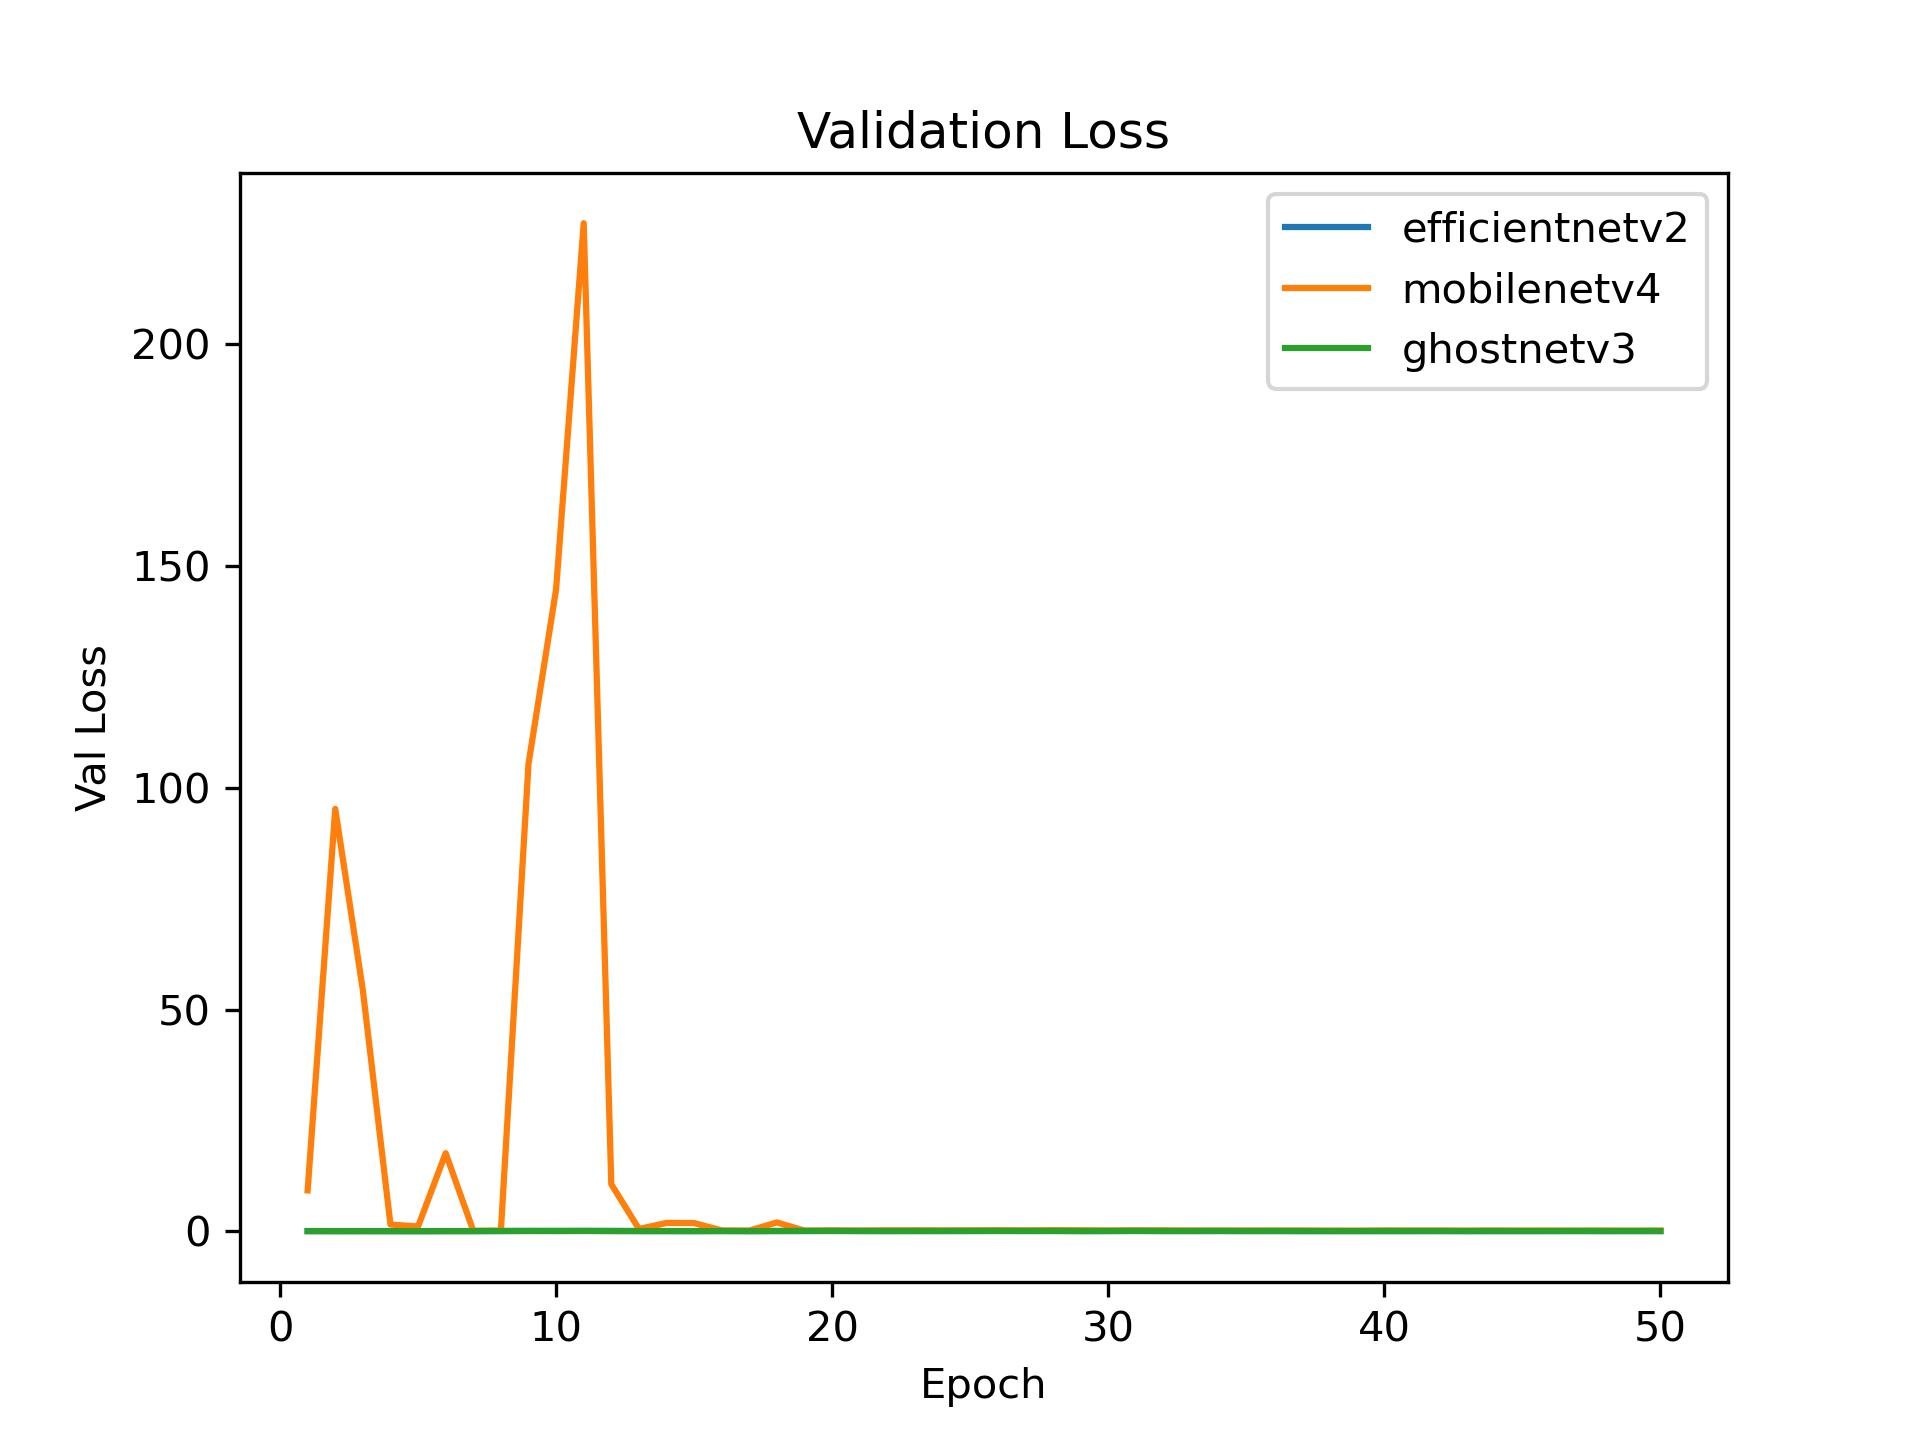
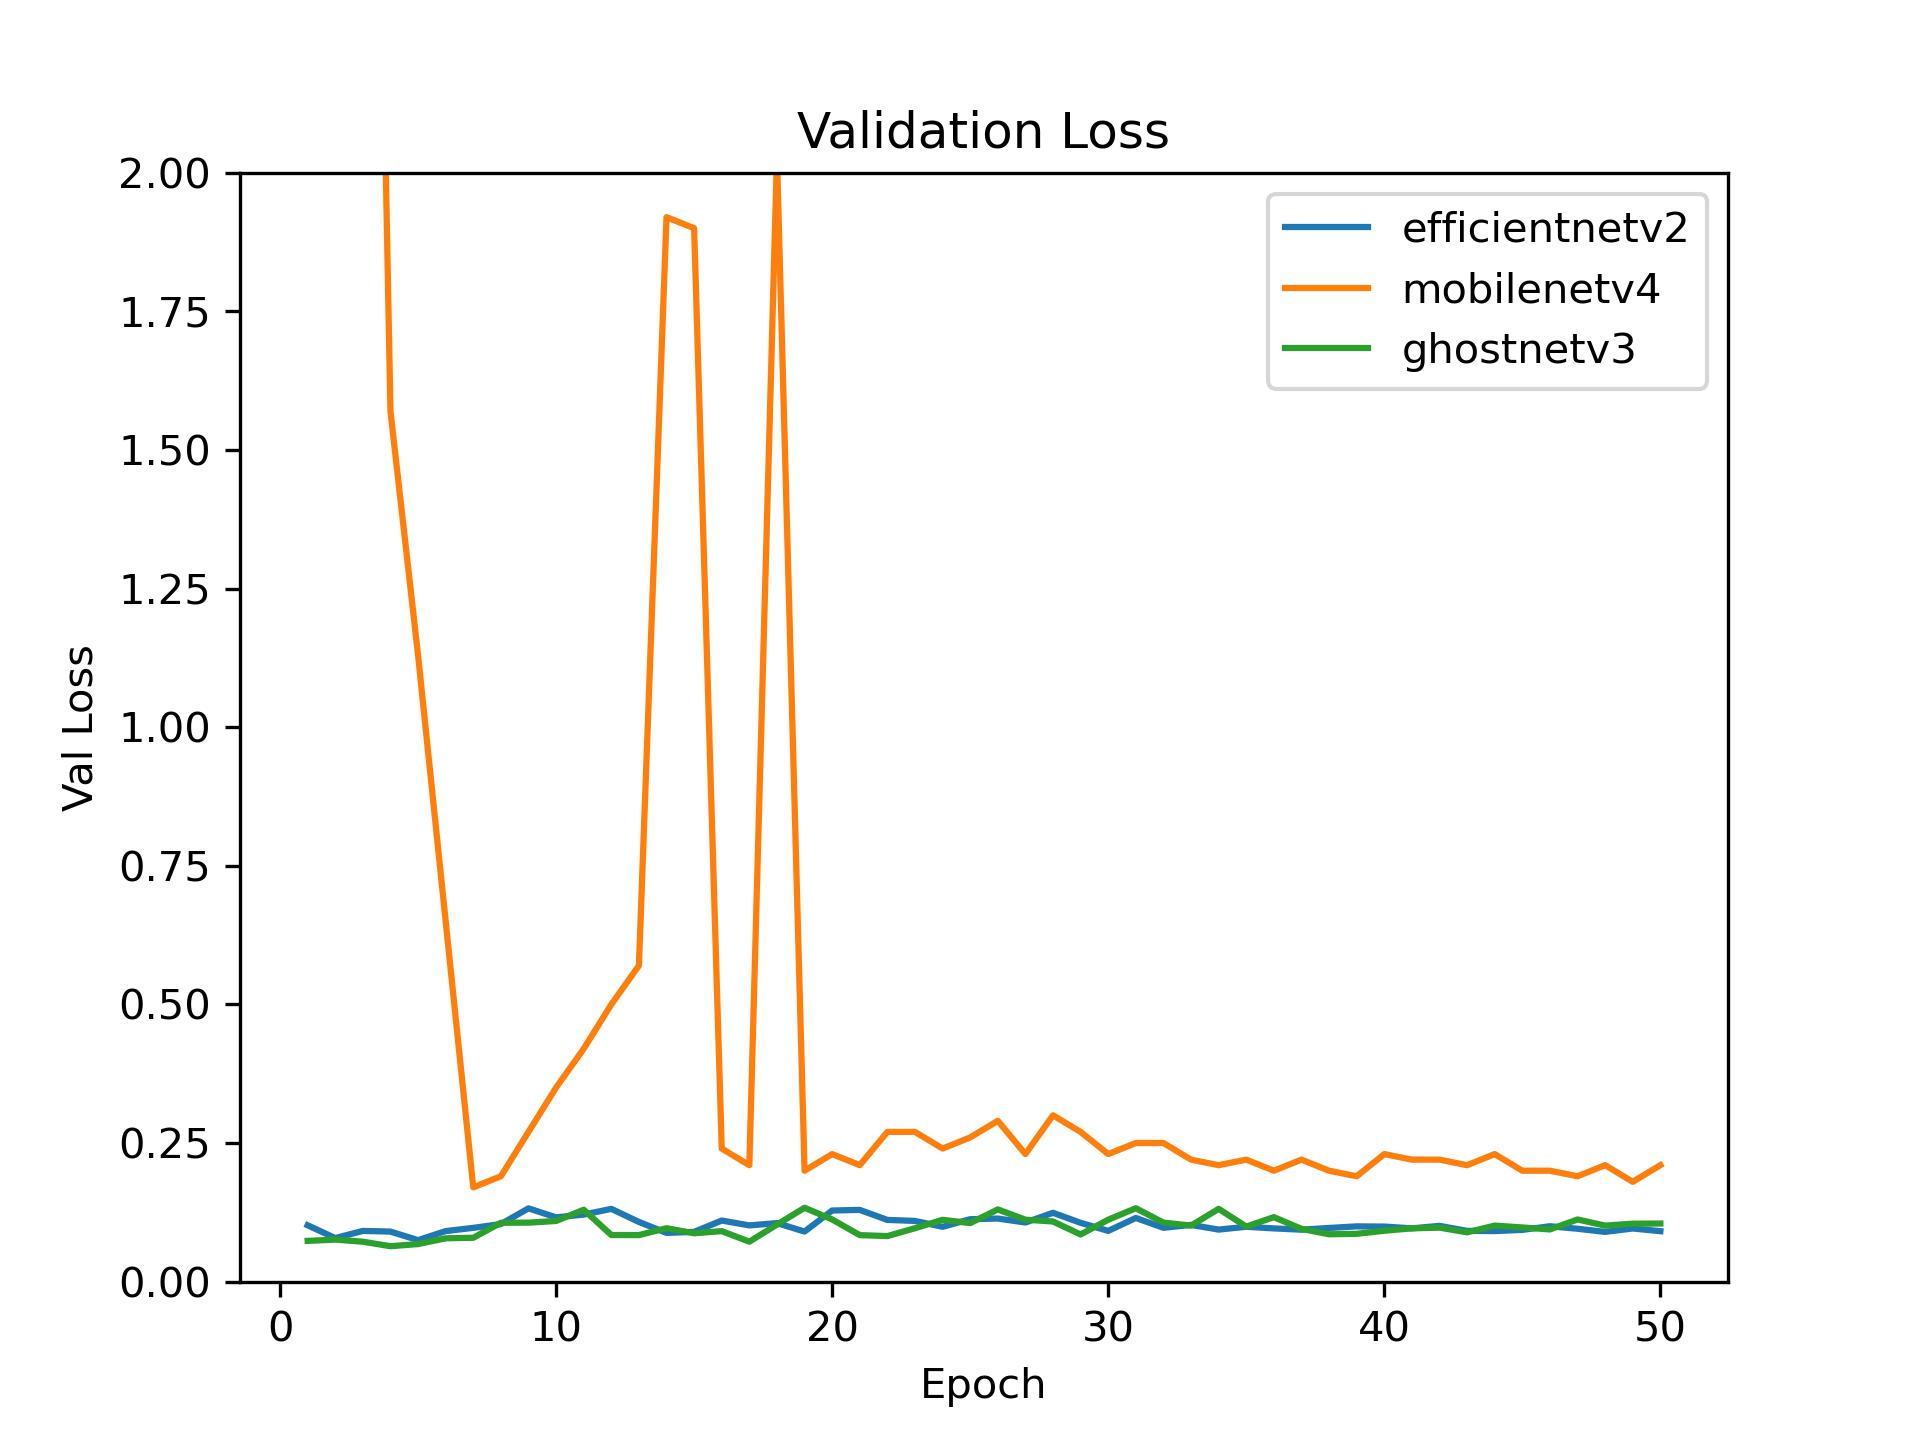
perbaikan code analisa

diff --git a/src/analisa.py b/src/analisa.py
@@ -23,9 +23,9 @@ f1 = pd.read_csv(log_dir / "efficientnetv2/efficientnetv2_run1_log.csv")
 f2 = pd.read_csv(log_dir / "mobilenetv4/mobilenetv4_run1_log.csv")
 f3 = pd.read_csv(log_dir / "ghostnetv3/ghostnetv3_run1_log.csv")
 
-for metric, ylabel, title, fname in [
-    ("val_f1",   "Val F1",   "Validation F1",   "val_f1.jpg"),
-    ("val_loss", "Val Loss", "Validation Loss",  "val_loss.jpg"),
+for metric, ylabel, title, fname, ylim in [
+    ("val_f1",   "Val F1",   "Validation F1",   "val_f1.jpg",   (0.9, 1)),
+    ("val_loss", "Val Loss", "Validation Loss",  "val_loss.jpg", (0, 2)),
 ]:
     plt.figure()
     for df, label in [(f1, "efficientnetv2"), (f2, "mobilenetv4"), (f3, "ghostnetv3")]:
@@ -34,8 +34,8 @@ for metric, ylabel, title, fname in [
     plt.ylabel(ylabel)
     plt.title(title)
     plt.legend()
+    plt.ylim(ylim)  # <-- tambahan ini
     plt.savefig(out_dir / fname, format="jpg", dpi=300)
-    plt.show()
     plt.close()
 
 print("Validation curves saved.")
@@ -152,7 +152,6 @@ plt.subplots_adjust(left=0, right=1, top=1, bottom=0, wspace=0.05, hspace=0.1)
 
 save_path = str(out_dir / "ghostnetv3_combined.jpg")
 plt.savefig(save_path, format="jpg", dpi=200, bbox_inches="tight")
-plt.show()
 plt.close()
 
 print(f"Saved: {save_path}")
